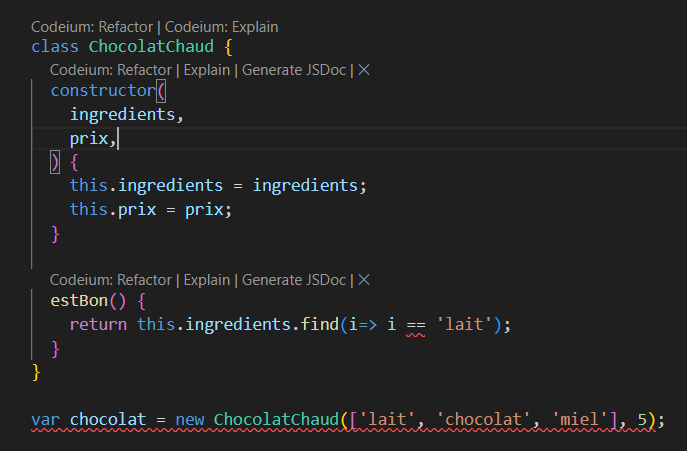
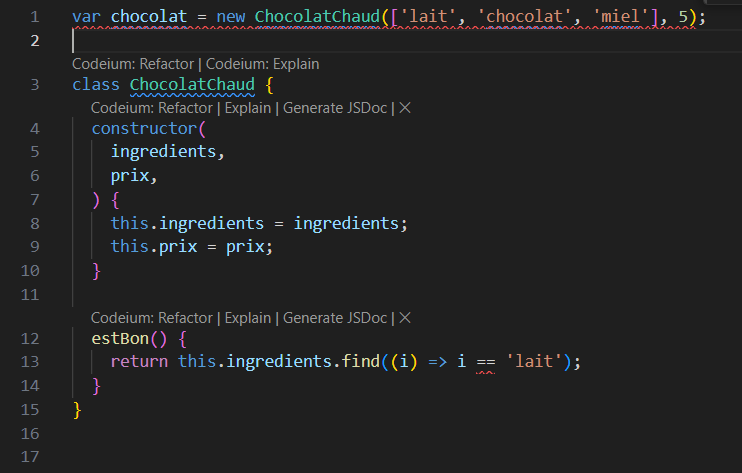
save

diff --git a/index.html b/index.html
@@ -17,15 +17,19 @@
 		<div class="slides">
 			<!-- 1 -->
 			<section id="slide-1" class="slide-1">
-				<h2>Biome, votre nouvelle lib js (encore)</h1>
+				<h2>Biome, votre nouvelle lib js (encore)</h2>
+					<aside class="notes">
+						<p>étendre écran -> window + p</p>
+						<p>plein écran navigateur -> fn + F11</p>
+					</aside>
 			</section>
 
 			<!-- 2 MOI-->
 			<section id="slide-2" class="slide-2">
-				<h2>Julien</h3>
+				<h3>Julien</h3>
 					<div class="is-flex align-items-center">
 						<div>
-							<p>Développeur senior JS/TS</p>
+							<p>Teck lead JS/TS</p>
 							<img class="r-stretch w-50 my-1-n" src="images/slide-2/onepoint.png">
 						</div>
 						<img class="r-stretch rounded" src="images/slide-2/moi.jpg">
@@ -86,14 +90,13 @@ const boissonsChaudes = [
 		typePreparation: 'machine',
 		taille: 'court',
 		autre: {
-			description:
-				'Cette boisson est composée à 1/3 de café expresso.',
+			description: 'Cette boisson est composée à 1/3 de café expresso.',
 			prix: 3,
 			devise: '$',
 		},
 	},
 	cafe,
-];			
+];
 						</code></pre>
 					<aside class="notes">
 						<ol>
@@ -154,7 +157,8 @@ const boissonsChaudes = [
 							</li>
 							<li>La configuration bien car communicatoin d'équipe</li>
 							<li>
-								LIBRAIRIE : Configuration partagé | CI/CD controle bloquante | librairis en plus |  CLI | branche à IDE
+								LIBRAIRIE : Configuration partagé | CI/CD controle bloquante | librairis en plus | CLI |
+								branche à IDE
 							</li>
 							<li>exemple : prettier, eslint</li>
 						</ol>
@@ -412,7 +416,8 @@ os.execCommand('npx prettier . --write --log-level=silent', returnvalue => {
 			<section id="slide-5">
 				<section>
 					<h2>Conclusion</h2>
-					<p>Nouvelle <a href="https://biomejs.dev/blog/biome-v1-6/" >version v1.6</a> sortie le 8 mars 2024</p>
+					<p>Nouvelle <a href="https://biomejs.dev/blog/biome-v1-6/">version v1.6</a> sortie le 8 mars 2024
+					</p>
 					<aside class="notes">
 						<ol>
 							<li>Installation, pas de conf comparé à eslint</li>

diff --git a/node.md b/node.md
@@ -30,9 +30,6 @@ pas de puce des icones
 moins de texte
 jouer sur le concour, creer une histoire sur les 25000
 background image du prix
-
-
-resume 
 zen
 demo
 exemple exterieur
@@ -41,23 +38,18 @@ init eslint facile et complete
 init prettier ???
 init biome ???
 
-# fait
-pas slide formatge
-slide formattage
-faire du vrai code  a place iamge
 
-
-// 11/03
+## 11/03
 faire un check visuel
 remplacer type
-descripiton trop long   
+description trop long
 retirer les sources
-préciser le == s    nq le code
-numero 
-mezilleur plascement
-deirect web
-racourcir
+préciser le == s
+numéro de ligne sur le code
+meilleur placement
+direct web
+raccourcir texte
 teck lead 
-plus d'indo sur le cpncpur
+plus d'info sur le concour
 plus parler 
 pourquoi la diff
